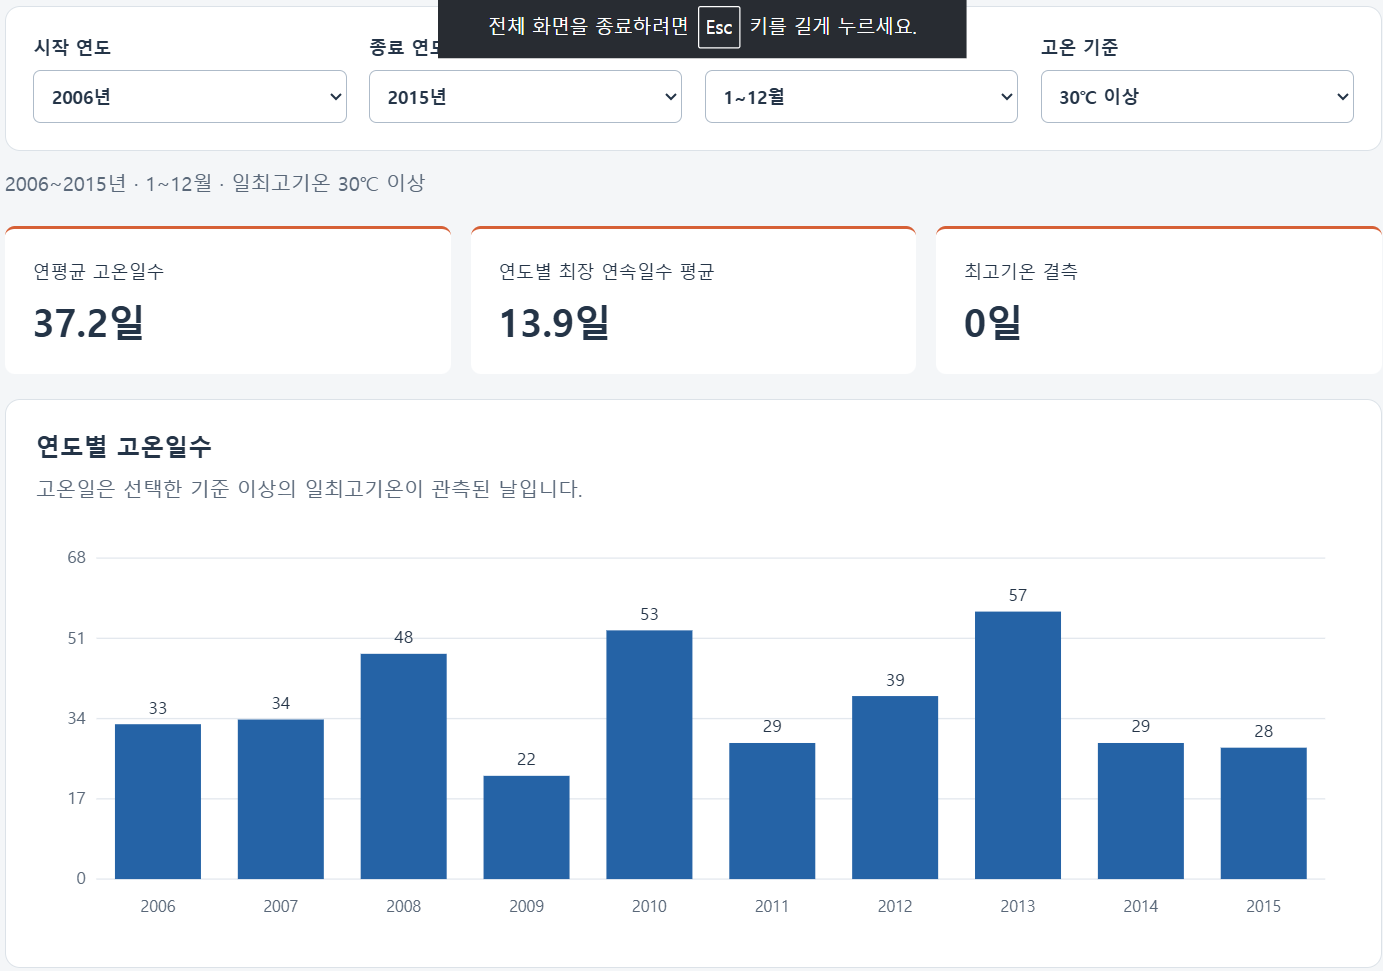
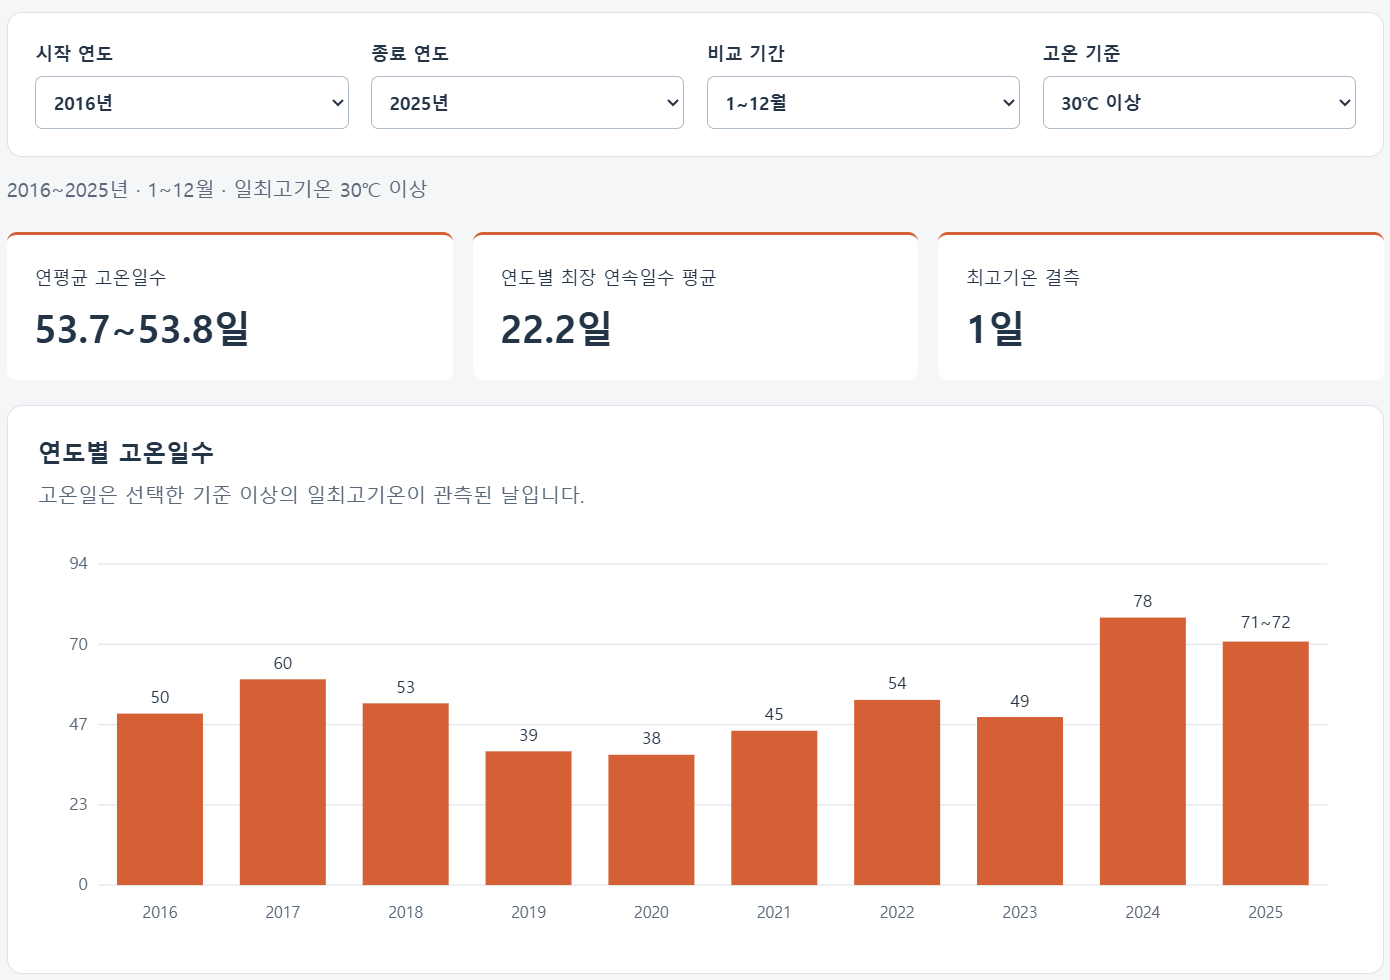
docs: 대시보드 제출 스크린샷과 시나리오 완성

diff --git a/verify_results.py b/verify_results.py
@@ -42,7 +42,7 @@ def main():
 
     report = (BASE / "REPORT.md").read_text(encoding="utf-8")
     image_links = re.findall(r"!\[[^\]]*\]\(([^)]+)\)", report)
-    assert len(image_links) == 7
+    assert len(image_links) == 10
     for link in image_links:
         with Image.open(BASE / link) as picture:
             picture.verify()
@@ -64,7 +64,7 @@ def main():
         curve = trends[f"trend={row.trend_window}, robust={row.robust}"]
         difference = curve.loc["2016":"2025"].mean() - curve.loc["2006":"2015"].mean()
         assert abs(difference - row.difference_c) < 1e-10
-    print("PASS: original values, annual/monthly totals, thresholds, January-August, STL and sensitivity, 7 PNGs, local links")
+    print("PASS: original values, annual/monthly totals, thresholds, January-August, STL and sensitivity, 10 PNG links, local links")
 
 
 if __name__ == "__main__":

diff --git a/REPORT.md b/REPORT.md
@@ -217,7 +217,8 @@
 관측소의 [공식 지점정보](https://data.kma.go.kr/tmeta/stn/selectStnDetail.do?isSelectStn=Y&pgmNo=82&stdStnNo=155)를
 후속 확인 경로로 남긴다. 이 분석에서는 전체 이전 이력과 환경 변화의 영향을 검증하지 못했다.
 기간을 달리 잡은 비교, 습도·바람·도시환경 자료 결합, 주변 관측소 비교가 후속 과제다.
-보너스 시계열 분해는 10절에 추가했다. 대시보드는 제작 예정이며 예측은 수행하지 않았다.
+보너스 시계열 분해는 10절, 로컬 대시보드와 제출용 스크린샷은 11절에 기록했다.
+예측은 수행하지 않았다.
 
 ## 9. AI 사용 로그
 
@@ -313,3 +314,29 @@ AI의 자체 검증을 제출자의 독립 검증으로 표현하지 않는다.
 계절 평활폭, 분석 기간, 관측소 환경에 대한 민감도는 이번 비교에 포함하지 않았다.
 2026년을 추가했을 때 끝부분이 어떻게 바뀌는지도 검증하지 않았다.
 모든 설정에서 성분 합의 복원과 기본 설정 재현을 확인했다.
+
+## 11. 보너스: 기간·고온 기준을 바꾸는 대시보드
+
+[로컬 실행 방법](dashboard/README.md)에 따라 대시보드를 열면 시작·종료 연도,
+비교 기간(연간 또는 1~8월), 고온 기준(28·30·33℃)을 변경할 수 있다.
+선택 조건에 따른 연평균 고온일수, 연도별 최장 연속일수 평균, 결측일수와
+연도별 그래프·표가 함께 갱신된다. 2026년이 선택되면 모든 연도를 1~8월로 맞춘다.
+
+제출 방식은 **(3) 대시보드 스크린샷 세트 + 필터 변경 시나리오 설명**이다.
+[세 가지 변경 시나리오와 스크린샷](dashboard/SCENARIOS.md)을 제출 자료로 사용한다.
+
+![최근 10년·30℃ 기준 대시보드](dashboard/screenshots/01_recent_30.png)
+
+![최근 10년·33℃ 기준 대시보드](dashboard/screenshots/02_recent_33.png)
+
+![2026년 1~8월·30℃ 기준 대시보드](dashboard/screenshots/03_2026_jan_aug.png)
+
+**관찰:** 동일한 2016~2025년 구간에서 30℃ 기준 연평균 고온일수는
+53.7~53.8일이고, 33℃ 기준은 22.7~22.8일이다. 2026년만 선택하면
+1~8월 고온일수 56일, 최장 연속기간 32일이 표시된다.
+기준과 기간이 달라진 값이므로 세 숫자를 동일한 조건의 결과처럼 비교하지 않는다.
+
+**검증:** `verify_dashboard.py`가 브라우저 계산 함수의 81개 연도별 결과와
+단일 연도 선택 결과를 Python 분석 결과와 대조했다. 세 스크린샷의 조건·요약값도
+직접 확인했다. 계산 검증만으로 모든 브라우저의 화면·키보드 동작을 보증하지는 않는다.
+사용자와 AI가 필터·수치·스크린샷을 함께 확인했으며, AI는 비교 코드와 문서 정리를 도왔다.

diff --git a/dashboard/SCENARIOS.md b/dashboard/SCENARIOS.md
@@ -27,9 +27,18 @@ Windows의 Win+Shift+S로 캡처하고 아래 파일명으로 `screenshots/`에 
 
 ## 검증 기록
 
-- 사용자 확인: 2006~2025년에서 2016~2025년으로 변경했을 때 안내한 수치와 일치함을 대화에서 확인했다.
+- 사용자 확인: 2016~2025년·30℃ 화면에서 53.7~53.8일, 22.2일, 결측 1일을 확인했다.
+- 저장된 스크린샷 3장의 선택 조건과 요약 수치를 화면에서 확인했다.
 - 계산 검증: `verify_dashboard.py`가 3개 기준 × 20개 연도, 1~8월 21개 연도,
   단일 2024년 필터 결과를 기존 Python 분석과 대조한다.
 - 계산 검증은 실제 브라우저의 이벤트·레이아웃 검증을 대신하지 않는다.
 - 에이전트 브라우저는 로컬 HTML 접근이 정책상 차단되어 자동 UI 캡처를 수행하지 못했다.
-- 현재 위 3개 스크린샷은 사용자 저장 대기 상태다. 저장 후 이미지의 조건·수치를 확인하고 리포트에 연결한다.
+- 세 스크린샷은 `screenshots/`에 저장되어 있으며 리포트의 11절에서 연결한다.
+
+## 제출 스크린샷
+
+![2016~2025년·30℃ 대시보드](screenshots/01_recent_30.png)
+
+![2016~2025년·33℃ 대시보드](screenshots/02_recent_33.png)
+
+![2026년 1~8월·30℃ 대시보드](screenshots/03_2026_jan_aug.png)

diff --git a/dashboard/README.md b/dashboard/README.md
@@ -31,10 +31,10 @@ HTML, CSS, app.js, data.js는 같은 폴더에 유지한다.
 3. 고온 기준을 33℃로 변경: 고온일수 22.7~22.8일, 최장 연속일수 평균 11.2일.
 4. 시작·종료를 2026년, 기준을 30℃로 변경: 1~8월 자동 선택, 56일·32일·결측 0일.
 
-[제출용 캡처 시나리오와 검증 기록](SCENARIOS.md)을 참고한다. 스크린샷 3개는 저장 대기 중이다.
+[제출용 스크린샷 3장과 필터 변경 시나리오](SCENARIOS.md)를 참고한다.
 `verify_dashboard.py`를 프로젝트 루트에서 실행하면 81개 연도별 결과와 단일 연도 필터를
 Python 분석 결과와 대조한다. 검증에는 Node.js가 필요하다(검증 환경 v24.19.0).
 대시보드를 열어 사용하는 데에는 Node.js가 필요하지 않다.
-사용자는 기본 기간 변경에 따른 수치 일치를 확인했으며, 나머지 실제 UI 동작과 캡처는 후속 확인 대상이다.
+사용자가 필터 변경에 따른 수치를 확인했고, 세 가지 조건의 화면을 저장했다.
 지원하는 브라우저에서는 `set_heat_filters` WebMCP 도구를 등록하며,
 미지원 브라우저에서는 일반 선택 상자가 그대로 동작한다. 지원 환경에서의 도구 호출 검증은 아직 수행하지 않았다.

diff --git a/README.md b/README.md
@@ -82,5 +82,5 @@ python -m venv .venv
 `images/07_stl_sensitivity.png` 및 설정별 추세·요약 CSV를 생성한다.
 대시보드 첫 화면과 [실행 방법](dashboard/README.md)을 추가했다.
 브라우저용 계산은 `verify_dashboard.py`로 Python 결과와 대조했다(Node.js 필요).
-[제출용 스크린샷 시나리오](dashboard/SCENARIOS.md)의 3개 화면을 저장하는 단계가 남아 있다.
+[제출용 스크린샷 3장과 필터 변경 시나리오](dashboard/SCENARIOS.md)를 저장했다.
 예측은 수행하지 않았다.
